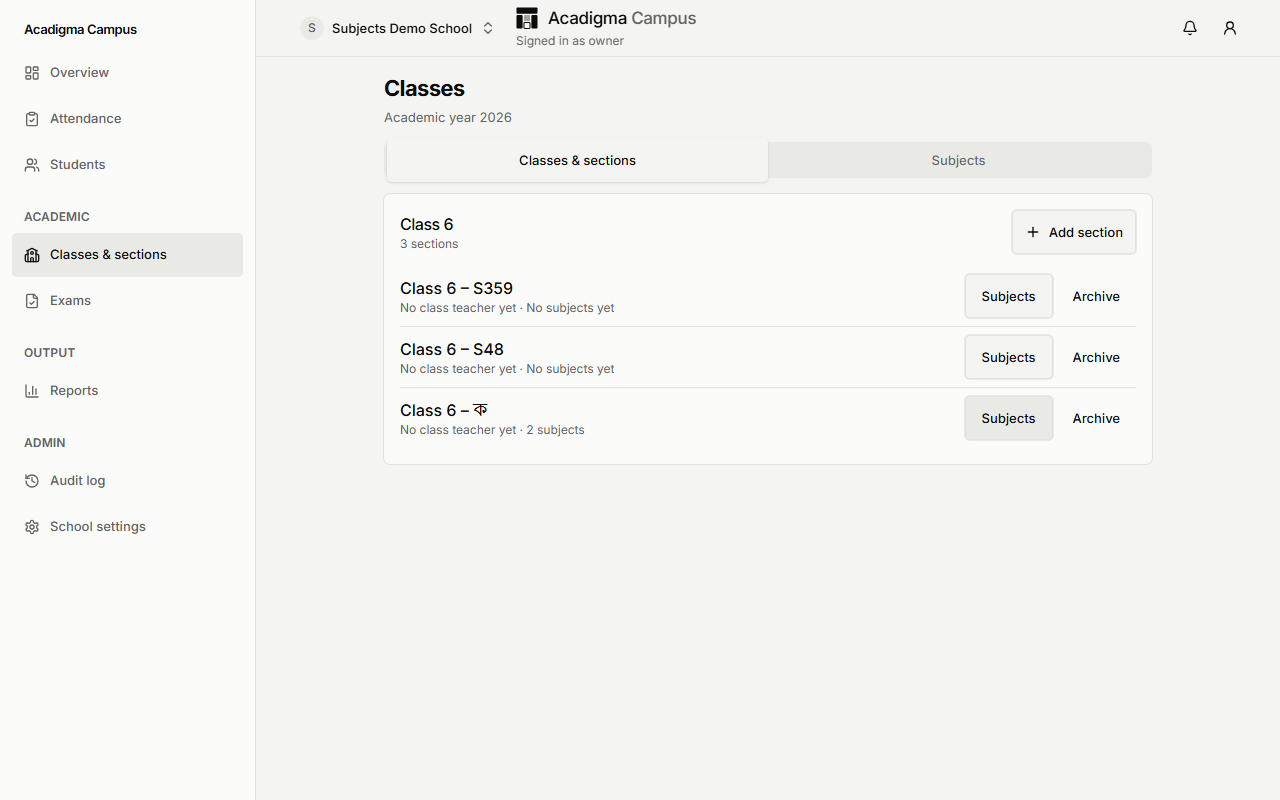
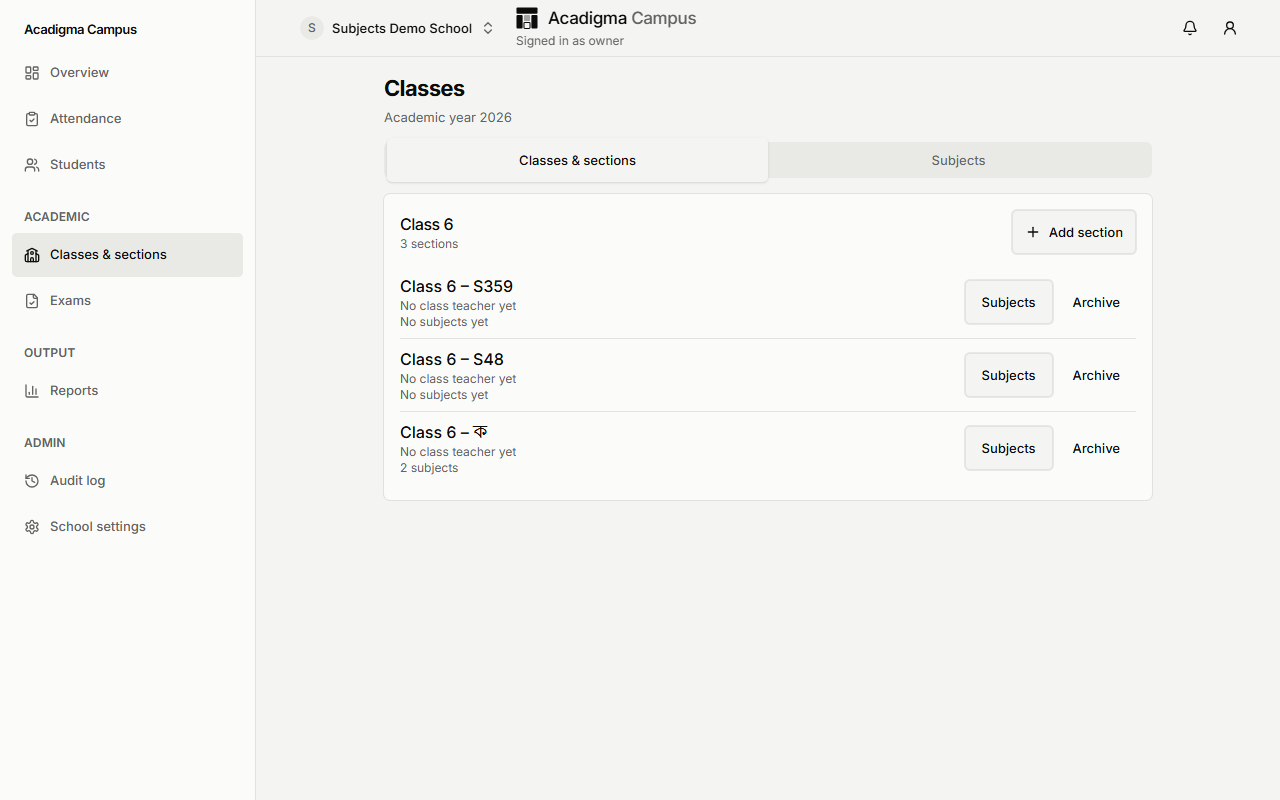
docs(academics): F-AC-01 Part 5 test report (D-107)
Claude-Session: https://claude.ai/code/session_01NpL5GTsCLwuvihxyunVZPr

diff --git a/apps/web/app/(school)/app/classes/classes-view.test.tsx b/apps/web/app/(school)/app/classes/classes-view.test.tsx
@@ -99,9 +99,6 @@ describe("ClassesView", () => {
       screen.getByText("Class teacher: Nadia Rahman · Room 204")
     ).toBeTruthy()
     expect(screen.getByText("1 subject")).toBeTruthy()
-    expect(
-      screen.getByText("Class teacher: Nadia Rahman · Room 204")
-    ).toBeTruthy()
     expect(screen.getByText(en.classes.noSections)).toBeTruthy()
   })
 

diff --git a/docs/test-reports/2026-09-26-F-AC-01-p5.md b/docs/test-reports/2026-09-26-F-AC-01-p5.md
@@ -1,0 +1,74 @@
+# Test Report — F-AC-01 Part 5 section subjects, demo cut (D-107)
+
+|         |                                                                                      |
+| ------- | ------------------------------------------------------------------------------------ |
+| Feature | F-AC-01 — Academic structure                                                         |
+| Part    | Part 5 (section subjects and teaching assignments), demo cut                         |
+| Spec    | `docs/features/02-academics/F-AC-01-academic-structure.md` §3, §4.3, §4.5, §5.9, §11 |
+| PR      | #73                                                                                  |
+| Status  | **PASS WITH KNOWN ISSUES** (CI numbers in the PR checks)                             |
+| Date    | 2026-09-26                                                                           |
+| Run by  | Claude (identity lane builder)                                                       |
+
+## 1. Scope
+
+`section_subjects` (section × subject × teacher), `public.set_section_subjects`, and the Subjects sheet on `/app/classes`. The sheet has a tick per subject, a teacher picker per ticked subject and one Save. Each section row shows "n subjects". Also: `listMySections` for the basic-mode home, `create_exam` defaulting each paper's teacher from `section_subjects`, and the release of a removed member's subjects. Plus the #66 security LOW follow-up: the zip-bomb tests now assert what read-excel-file receives.
+
+| Criterion                                                  | Covered by                                                                                                                  |
+| ---------------------------------------------------------- | --------------------------------------------------------------------------------------------------------------------------- |
+| §4.3 assign / change a subject's teacher                   | `37_` (set, replace, re-teacher, remove); `actions.test.ts`; `classes-view.test.tsx`; journey                               |
+| §5.9 teacher is an active owner/admin/teacher              | `37_` `MEMBER_NOT_ELIGIBLE` for a parent member; repository maps it to the teacher field                                    |
+| AC7 (subject half) removed member's assignments are nulled | `37_` a removed member stops teaching; existing exam papers keep their teacher                                              |
+| AC10 teacher reads, cannot write                           | `37_` teacher reads 2 rows, `set_section_subjects` refused by RLS, direct delete/update touch nothing; `actions.test.ts`    |
+| AC11 isolation                                             | `37_` other school's owner sees 0 rows, `SECTION_NOT_FOUND`, RLS refusal; composite FKs refuse cross-school subject/teacher |
+| Read-only mode (D-300)                                     | `37_` `PLAN_READ_ONLY`, nothing changed; `actions.test.ts`                                                                  |
+| Basic home: a subject-only teacher has classes (D-403 (c)) | `academics.test.ts` (merge, order, empty cases); `academics.integration.test.ts` against real PostgREST                     |
+| create_exam default teacher (D-303 item 2, D-304 item 1)   | `37_` Science paper gets the section's teacher; Maths (no teacher) and English (no row) stay null                           |
+
+## 2. Environment
+
+Node 24, pnpm 10.34.5. Local embedded PostgreSQL 17.10 + pgTAP 1.3.4 running the CI `db` job's steps (bootstrap, every migration, every test file). The local Supabase stack (CLI 2.117 in Docker: Postgres 17.6, GoTrue, PostgREST, Kong) ran with `supabase db reset` applying this branch's migrations, for the integration test, the e2e journey and the screenshots. `next start` ran on port 3101 (identity lane). Migration head is `20260925300320_section_subjects.sql`.
+
+## 3. Unit (Vitest)
+
+`pnpm test`: **143 files passed, 1 skipped; 1412 tests passed, 3 skipped** (final gate run). New or extended tests:
+
+- `contracts/academics/structure.test.ts`: list with and without teachers, empty list; a subject listed twice, a missing teacher key and unknown keys are refused.
+- `db/repositories/academics.test.ts`: `setSectionSubjects` sends workspace, section and snake_case rows, and maps `SECTION_NOT_FOUND`, `MEMBER_NOT_ELIGIBLE`, a foreign subject and an unknown error. `listMySections` merges class-teacher and subject-teacher sections sorted by grade, subjects by name; it filters by workspace, user, teacher, year and not archived; it is empty with no year or no membership, and fails closed.
+- `web/.../classes/actions.test.ts`: a teacher is refused, a read-only school is refused, a duplicate is refused before resolving anything, and an admin saves.
+- `web/.../classes/classes-view.test.tsx`: "1 subject" on the row; the sheet shows the current teacher; ticking English and picking a teacher saves the whole list; readers get no Subjects button; the sheet works in Bangla, with Western digits ("1টি বিষয়").
+- `web/.../students/import/read-sheet.test.ts` (#66 follow-up): `read-excel-file/node` is wrapped by a spy that still parses. For the lying-size zip, the buffer the parser receives holds only `xl/worksheets/sheet1.xml`, inflated without trusting its declared size, and ≤ 100 bytes. For the hidden-entry zip, the input does contain `xl/worksheets/bomb.xml`, but the parser's buffer does not, and every entry in it matches the allowed names. For the over-cap zips the parser is never called. **The tests fail on the old behaviour:** feeding the raw upload to the parser (caps still checked) gave 2 failed / 4 passed ("expected 20000000 to be less than or equal to 100"; "expected [...] to not include 'xl/worksheets/bomb.xml'"). With the real code they pass 6/6.
+
+## 4. Database (pgTAP)
+
+Full local run: every file passes. `37_section_subjects.sql` **24/24**; `12_function_grants_invariant.sql` 10/10 with `set_section_subjects(uuid, uuid, jsonb)` allow-listed; `32_` 33/33, `53_exams.sql` 38/38, `54_marks.sql` 40/40, `04_`/`08_` audit 14/14 and 56/56, all others as on main. `51_readonly_join_and_seed.sql` uses psql meta-commands and does not run in the local harness (pre-existing; it runs in CI).
+
+## 5. Integration and end to end
+
+- `packages/db/src/repositories/academics.integration.test.ts` (opt-in, `DB_LOCAL_SUPABASE=1`) against the local stack: **3 passed**. The new case signs in as the owner and runs `setSectionSubjects`. It then reads `getClassesOverview`, which embeds `section_subjects`, and `listMySections`, which uses `sections!section_subjects_section_fkey!inner` and `subjects!section_subjects_subject_fkey`. This proves the embeds and the RPC work through real PostgREST, the class of bug behind the PR #61 outage.
+- `apps/web/e2e/journeys/add-section-and-assign-teacher.spec.ts` at 360×800 and 1280×800 with axe, against the local stack with a seeded owner: **4 passed** (both tests × both viewports). The new test adds a section, opens its Subjects sheet, ticks Bangla 1st Paper with a teacher and Mathematics, saves, sees "2 subjects", then archives the section. The run found two journey bugs, now fixed. Both tests navigated before sign-in finished, so they now wait for the URL to leave `/login`. Axe also sampled the add-section dialog mid fade-in (3.9:1 on the description), so the journey now waits for animations to finish before axe. In CI the journey stays skip-gated on OQ-27.
+- Screenshots (English), with the sheet open and closed, at 360 and 1280: `assets/2026-09-26-F-AC-01-p5/`. The first phone screenshot showed the subject count truncated off the row subtitle, so the count now has its own line.
+
+## 6. Performance
+
+`pnpm --filter @acadigma/web build` is green. `/app/classes` first-load JS is 252 kB, the same as before (the sheet adds no dependency). `check-bundle-budget` passes. `set_section_subjects` is three statements on at most 40 rows. `listMySections` makes four PostgREST calls (year and membership in parallel, then the two assignment reads in parallel), backed by `sections_class_teacher_idx` and the new `section_subjects_teacher_idx`.
+
+## 7. Security checks
+
+- Tenant context comes from `requireWorkspace`. The action runs `can("academics.section.write")` and then `requireWritable`.
+- The function is SECURITY INVOKER, so RLS (T2) and the triggers decide. It also takes the workspace id, so a member of two schools cannot touch the other school's section.
+- Composite FKs make cross-school rows impossible. Only owner/admin hold DELETE. Anon has no privilege and no execute. Audit rows are written by trigger. No new dependency.
+
+## 8. Known issues
+
+1. Demo cut (D-107): there are no assistants, bulk assign by subject, "n need a teacher" banner, notifications, grade templates, `periods_per_week` or own-row update for teachers yet.
+2. Readers (teacher, staff) see only "n subjects" on a row, not which subjects or who teaches them.
+3. `app.can_enter_marks` still reads `exam_subjects.teacher_id`. Changing a subject's teacher on the Classes page does not move an existing exam's papers (by design, D-107 item 7).
+4. Removing a subject from a section deletes the row (nothing references it yet). The first Part that references it must switch to archive.
+5. `types.generated.ts` was extended by hand for the table and the function. If the `db` job's types step differs, replace it with CI's `types-generated` artifact.
+6. The migration name `20260925300320_…` is lead-assigned. If the order check fails after another merge, rename as `check-migrations-order` suggests.
+7. `12_function_grants_invariant.sql` is also edited by the results PR (`feat/academics-results`), so expect a one-line merge conflict in the allowlist.
+
+## 9. Sign-off
+
+Builder: the local gate is green (install, format, typecheck, lint, test, every `scripts/check-*.mjs`, web build, full pgTAP, the integration test and the e2e journey on the local stack). CI: see PR #73.
